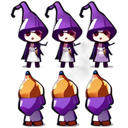
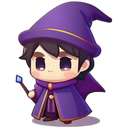
Regenerate all NPC sprites as single figures, add gendered names
- Regenerated 17 bad sprites (multi-figure → single chibi) via ComfyUI
- Population growth now assigns gender-appropriate names matching sprite
- Female sprite slots: 01,06,10,11,13,15,17,19,21,23,25,27
- Male sprite slots: 02,03,04,05,07,08,09,12,14,16,18,20,22,24,26,28,29,30
- New NPCs get next available sprite_id with matching gendered name

diff --git a/engine/simulation/npcs.py b/engine/simulation/npcs.py
@@ -719,16 +719,32 @@ def check_population_growth(db: Session) -> None:
     avg_happiness = sum(npc.happiness for npc in npcs) / len(npcs)
 
     if avg_happiness > 40 and len(npcs) < 30:
-        names = ["Alice", "Bob", "Charlie", "Diana", "Eve", "Frank",
-                 "Grace", "Henry", "Ivy", "Jack", "Kate", "Leo",
-                 "Mia", "Noah", "Olive", "Pete", "Quinn", "Rose",
-                 "Sam", "Tina", "Uma", "Vince", "Wendy", "Xander"]
+        male_names = ["Bob", "Charlie", "Frank", "Henry", "Jack", "Leo",
+                      "Noah", "Pete", "Sam", "Vince", "Xander", "Marcus",
+                      "Edmund", "Thomas", "William", "George", "Arthur"]
+        female_names = ["Alice", "Diana", "Eve", "Grace", "Ivy", "Kate",
+                        "Mia", "Olive", "Rose", "Tina", "Uma", "Wendy",
+                        "Clara", "Elena", "Sophia", "Martha", "Helen"]
         roles = ["farmer", "baker", "guard", "merchant", "priest",
                  "blacksmith", "miner", "fisher", "carpenter", "artist"]
+        # Sprite gender: F slots are 01,06,10,11,13,15,17,19,21,23,25,27
+        female_sprites = {1, 6, 10, 11, 13, 15, 17, 19, 21, 23, 25, 27}
+
+        # Pick next available sprite slot
+        used_sprites = {n.sprite_id for n in npcs if n.sprite_id}
+        sprite_num = None
+        for s in range(1, 31):
+            sid = f"npc_{s:02d}"
+            if sid not in used_sprites:
+                sprite_num = s
+                break
+        is_female = sprite_num in female_sprites if sprite_num else random.random() < 0.5
+        name = random.choice(female_names if is_female else male_names)
 
         new_npc = NPC(
-            name=random.choice(names),
+            name=name,
             role=random.choice(roles),
+            sprite_id=f"npc_{sprite_num:02d}" if sprite_num else None,
             x=random.randint(5, 45),
             y=random.randint(5, 45),
             gold=50,

diff --git a/engine/main.py b/engine/main.py
@@ -182,15 +182,19 @@ def _fix_null_columns(db):
     if living < MIN_POP:
       try:
         import random
-        names = ["Alice", "Bob", "Charlie", "Diana", "Eve", "Frank",
-                 "Grace", "Henry", "Ivy", "Jack", "Kate", "Leo",
-                 "Mia", "Noah", "Olive", "Pete", "Quinn", "Rose"]
+        male_names = ["Bob", "Charlie", "Frank", "Henry", "Jack", "Leo",
+                      "Noah", "Pete", "Marcus", "Edmund", "Thomas", "William"]
+        female_names = ["Alice", "Diana", "Eve", "Grace", "Kate",
+                        "Clara", "Elena", "Sophia", "Martha", "Helen"]
         roles = ["farmer", "baker", "guard", "merchant", "priest",
                  "blacksmith", "miner", "fisher", "carpenter", "artist"]
+        female_sprites = {1, 6, 10, 11, 13, 15, 17, 19, 21, 23, 25, 27}
         for i in range(MIN_POP - living):
-            name = random.choice(names)
+            sprite_num = living + i + 1
+            sid = f"npc_{sprite_num:02d}"
+            is_female = sprite_num in female_sprites
+            name = random.choice(female_names if is_female else male_names)
             role = random.choice(roles)
-            sid = f"npc_{living + i + 1:02d}"
             db.execute(text(
                 "INSERT INTO npcs (name, role, x, y, gold, hunger, energy, happiness, "
                 "age, max_age, is_dead, is_bankrupt, illness, illness_severity, "
